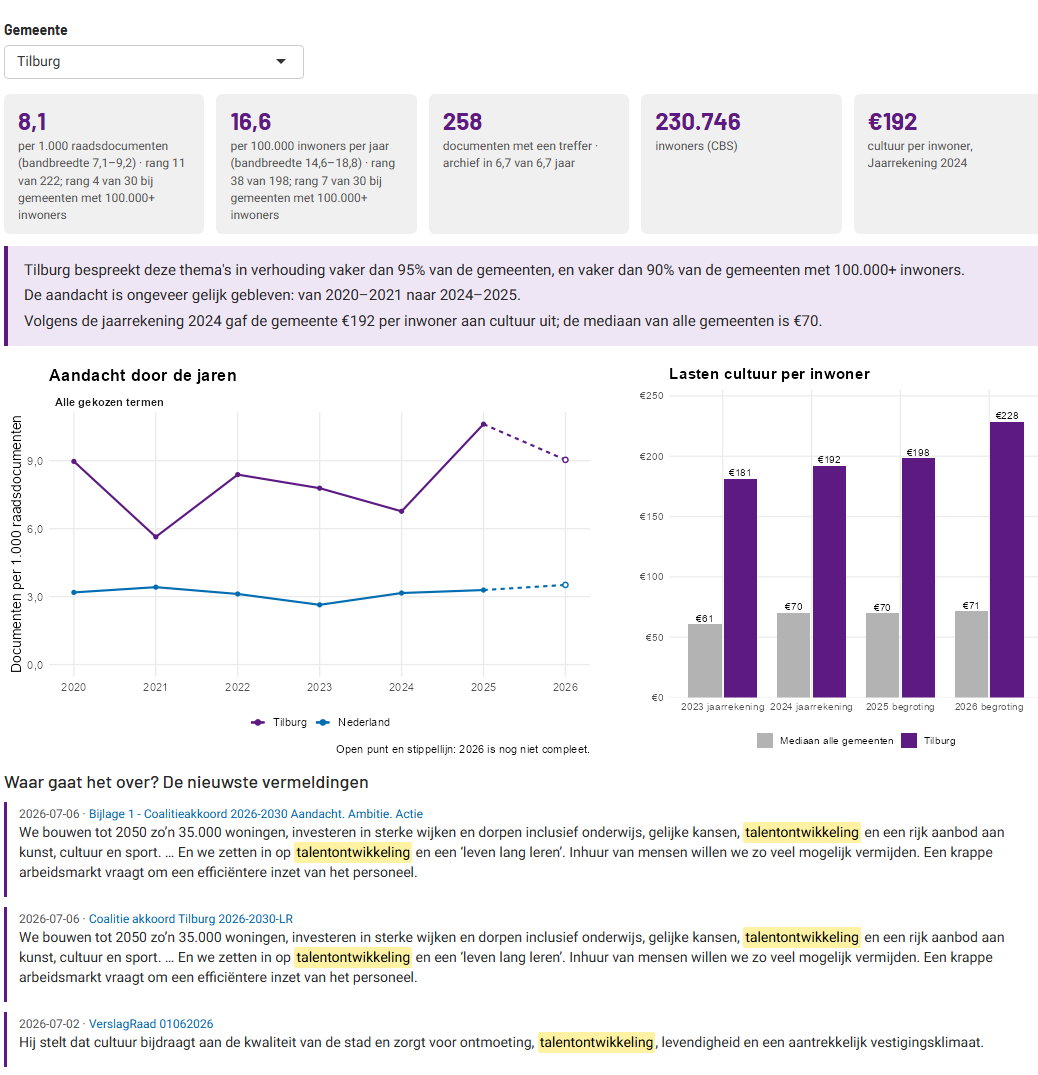
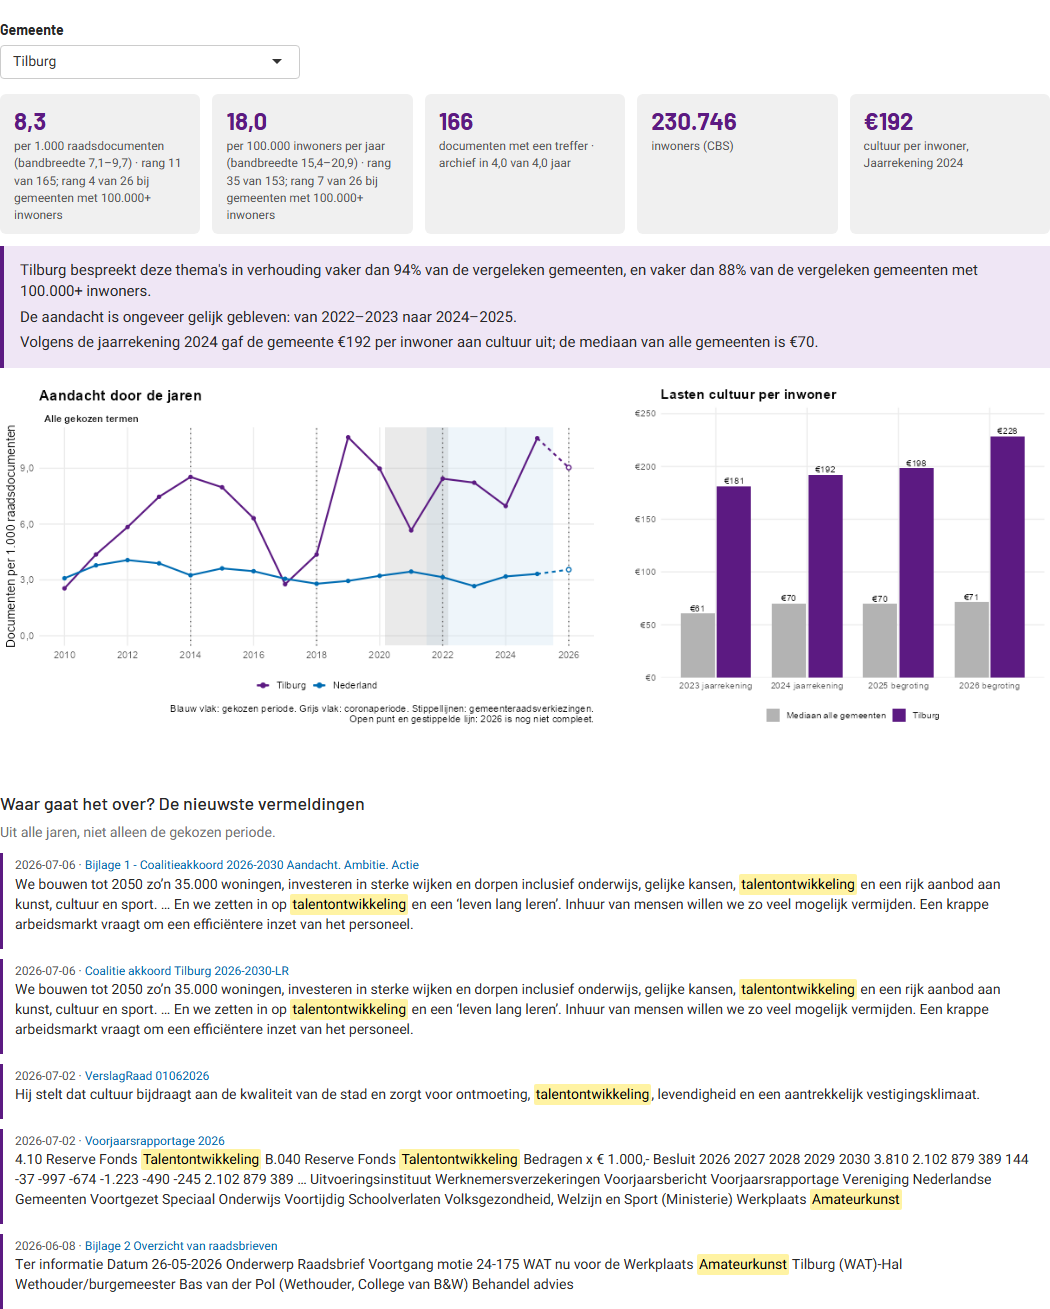
Nieuwe schermafbeeldingen, en scripts voor schermafbeeldingen en loadtest
- scripts/screenshots.R maakt de afbeeldingen in docs/img opnieuw via een
  deelbare link (thema, periode, tabblad, gemeenten), zonder API-verzoeken.
- scripts/loadtest.R: N gelijktijdige browsersessies tegen de online app.
- Bijschriften op de projectpagina en README aangepast aan thema's,
  periodes en de gemarkeerde trend; ROADMAP 5.6 deels afgerond.

diff --git a/docs/index.html b/docs/index.html
@@ -112,8 +112,8 @@
 
   <main>
     <figure>
-      <img src="img/kaart.png" alt="Dashboard met links de zoekinstellingen, een kaart van Nederland met gemeenten ingekleurd naar het aantal raadsdocumenten over cultuurthema's per 1.000 documenten, en daaronder een sorteerbare ranking met bandbreedte.">
-      <figcaption>Aandacht voor amateurkunst, cultuurbeoefening en talentontwikkeling per 1.000 raadsdocumenten, 2020–2026, met een 95%-bandbreedte per gemeente.</figcaption>
+      <img src="img/kaart.png" alt="Dashboard met links de keuze voor thema en periode, een kaart van Nederland met gemeenten ingekleurd naar het aantal raadsdocumenten over cultuurthema's per 1.000 documenten, en daaronder een sorteerbare ranking met bandbreedte.">
+      <figcaption>Aandacht voor amateurkunst, cultuurbeoefening en talentontwikkeling per 1.000 raadsdocumenten in de raadsperiode 2022–2025, met een 95%-bandbreedte per gemeente.</figcaption>
     </figure>
 
     <h2>Wat kun je ermee?</h2>
@@ -174,13 +174,13 @@
     </div>
 
     <figure>
-      <img src="img/trend.png" alt="Lijngrafieken per zoekterm met de aandacht per jaar voor Nederland, Tilburg en Utrecht.">
-      <figcaption>Trend per term, met Tilburg en Utrecht naast heel Nederland.</figcaption>
+      <img src="img/trend.png" alt="Lijngrafieken per zoekterm met de aandacht per jaar sinds 2010 voor Nederland, Tilburg en Utrecht, met de gekozen periode, de coronaperiode en de verkiezingsjaren gemarkeerd.">
+      <figcaption>Trend per term sinds 2010, met Tilburg en Utrecht naast heel Nederland. Blauw: gekozen periode; grijs: coronaperiode; stippellijnen: gemeenteraadsverkiezingen.</figcaption>
     </figure>
 
     <figure>
       <img src="img/budget.png" alt="Spreidingsdiagram met cultuurlasten per inwoner op de horizontale as en aandacht in de raad op de verticale as, met gemeenten ingedeeld in vier profielen.">
-      <figcaption>Aandacht in de raad naast de cultuurlasten per inwoner (jaarrekening 2024).</figcaption>
+      <figcaption>Aandacht in de raad (2022–2025) naast de cultuurlasten per inwoner (jaarrekening 2024).</figcaption>
     </figure>
 
     <h2>Onder de motorkap</h2>

diff --git a/ROADMAP.md b/ROADMAP.md
@@ -96,7 +96,7 @@ per term bekend (na het invullen door een vakinhoudelijk persoon).
 | 5.3 | **app.R opsplitsen in Shiny-modules** per tabblad; helper `opties_uit(input)`. |
 | 5.4 | **Geheugen**: verwerkte resultaten cachen in plaats van ruwe JSON (max ~50 MB); `bindCache()` op grafieken. |
 | 5.5 | **End-to-end-test** met shinytest2 of chromote tegen de online app (dagelijks, ook als uptime-check). |
-| 5.6 | **Screenshots en projectpagina automatisch bijwerken** na een release. |
+| 5.6 | **Screenshots en projectpagina automatisch bijwerken** na een release. Deels afgerond: `Rscript scripts/screenshots.R` maakt ze opnieuw (nog niet automatisch na een release). |
 | 5.9 | **Vaste thema's en periodes, geen live API** — afgerond: vrij zoeken uit (`VRIJ_ZOEKEN`, code blijft), periodeblokken van vier jaar uit voorberekende cijfers per jaar, voorberekende fragmenten en documenten, trend met corona en verkiezingen, grafieken gedeeld tussen bezoekers (`bindCache`). Nachtelijke run in delen van acht jaar en een lagere precisie voor het samenvoegen van bijlagen (`PRECISIE_UNIEK` 3.000), nadat de server van OpenBesluitvorming alle verzoeken weigerde wegens geheugengebrek (circuit breaker); zware tellingen dragen daaraan bij. Later eventueel: vrij combineren van vaste termen via een eigen database (na afstemming met Open State Foundation). |
 | 5.8 | **Tweede volledige code-review (45 punten)** — afgerond (PR #9–#12): nachtelijke run kan geen data meer wissen of slechte data publiceren (tijdsbudget, bevestigen van echte afwijkingen, plausibiliteit CBS/PDOK); fragmenten op de achtergrond en alleen volledige resultaten cachen; zoektermen die als kolomnaam bestaan, onvolledige fusies, het lopende jaar, "bibliotheek" als cultuurwoord en stabiele sleutels over R-versies; kleine app- en tekstpunten. |
 | 5.7 | **CBS-bronnen robuust en zuinig** — afgerond (PR #8): na de CBS-storing van 27 september geen zoekresultaten meer zonder gemeentecodes; CBS-tabellen en gemeentegrenzen alleen downloaden bij een nieuwe versie (wijzigingsdatum bij CBS, jaar bij PDOK); bij een onbereikbare bron een waarschuwing in plaats van een fout; in de app de datum waarop CBS de cijfers bijwerkte. |

diff --git a/README.md b/README.md
@@ -225,6 +225,16 @@ Lokaal:
 Rscript scripts/voorbereken.R uitvoer
 ```
 
+Schermafbeeldingen voor README en projectpagina opnieuw maken, en een
+loadtest met N gelijktijdige bezoekers tegen de online app. Beide gebruiken
+een headless Chrome (pakketten `chromote` en `callr`) en doen geen verzoeken
+aan de API van OpenBesluitvorming:
+
+```sh
+Rscript scripts/screenshots.R
+Rscript scripts/loadtest.R 1 5 10 20
+```
+
 Tests draaien (zonder netwerk):
 
 ```sh
@@ -255,7 +265,7 @@ R/nachtrun.R       nachtelijke run: bijwerken, afkeuren, opruimen, delen samenvo
 R/export.R         CSV-export
 R/namen.R          naamnormalisatie en opmaak
 R/uitleg.R         tabblad Uitleg
-scripts/           nachtelijke voorberekening en validatie
+scripts/           nachtelijke voorberekening, validatie, schermafbeeldingen en loadtest
 tests/testthat/    tests met vaste voorbeelden (fixtures)
 docs/              projectpagina (GitHub Pages) en screenshots
 .github/workflows/ tests en nachtelijke voorberekening
